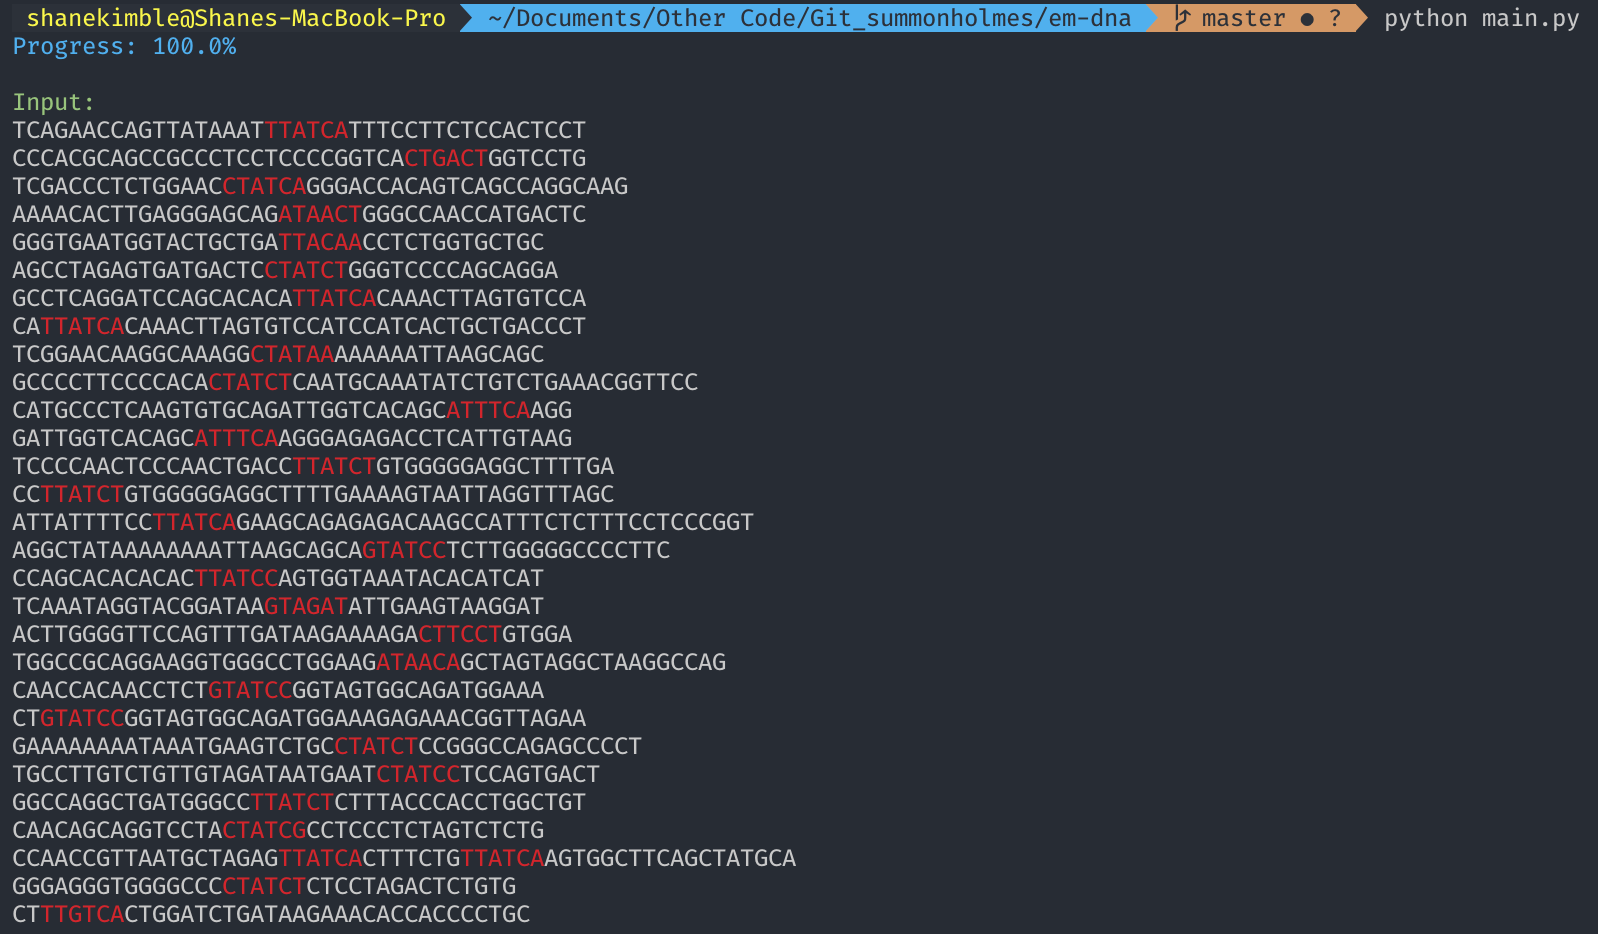
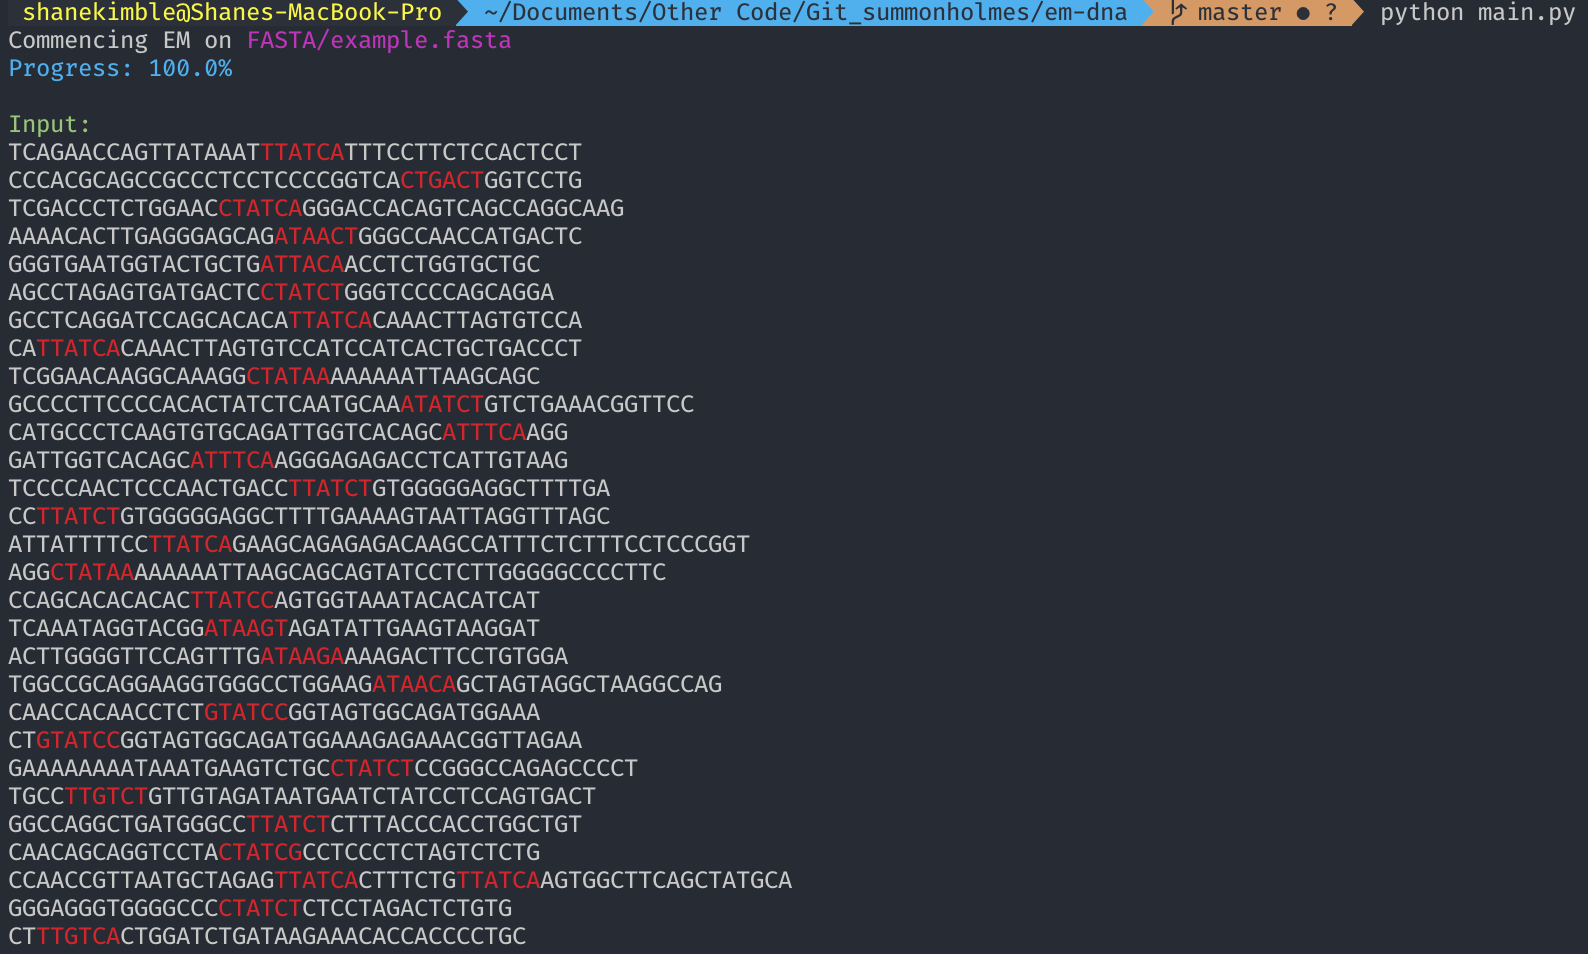
Renaming

Changed region(s): [[0.0, 0.0, 0.9874, 0.9936]]

diff --git a/class_EM_Run.py b/class_EM_Run.py
@@ -72,16 +72,19 @@ class EM_Run(EM_Matrix):
 
     def em_max_sum(self):
         # These index the best results below
-        self.max_likely_results["Final Max Score"] = max(
+        self.max_likely_results["Max Final Score"] = max(
             self.max_likely_results["Final Scores"])
-        self.max_likely_results["Final Sum Scores"] = sum(
+        self.max_likely_results["Max Sum Scores"] = sum(
             self.max_likely_results["Final Scores"])
 
     def em_best_result(self):
         # Last fxn within the em_core for loop
-        self.max_likely_results["Final Sequence"] = self.max_likely_results[
-            "Final Scores"].index(self.max_likely_results["Final Max Score"])
-        self.max_likely_results["Final Position"] = self.max_likely_results[
-            "Final Positions"][self.max_likely_results["Final Sequence"]]
-        self.max_likely_results["Final Motif"] = self.max_likely_results[
-            "Final Motifs"][self.max_likely_results["Final Sequence"]]
+        self.max_likely_results[
+            "Max Final Sequence"] = self.max_likely_results[
+                "Final Scores"].index(
+                    self.max_likely_results["Max Final Score"])
+        self.max_likely_results[
+            "Max Final Position"] = self.max_likely_results["Final Positions"][
+                self.max_likely_results["Max Final Sequence"]]
+        self.max_likely_results["Max Final Motif"] = self.max_likely_results[
+            "Final Motifs"][self.max_likely_results["Max Final Sequence"]]

diff --git a/class_EM_Core.py b/class_EM_Core.py
@@ -11,13 +11,15 @@ class EM_Core:
     # Runs and contains all EM rounds
     def __init__(self):
         # Initialize input object
-        em_input_obj = EM_Input()
+        em_input = EM_Input()
+        print("Commencing EM on", colored(em_input.input_fasta_path,
+                                          "magenta"))
 
         # Get params
-        self.motif_width = em_input_obj.motif_width
-        self.total_rand_aligns = em_input_obj.total_rand_aligns
-        self.total_em_iters = em_input_obj.total_em_iters
-        self.fasta_file_seqs = em_input_obj.fasta_file_seqs
+        self.motif_width = em_input.motif_width
+        self.total_rand_aligns = em_input.total_rand_aligns
+        self.total_em_iters = em_input.total_em_iters
+        self.fasta_file_seqs = em_input.fasta_file_seqs
         self.em_prep = EM_Prep(self.fasta_file_seqs, self.motif_width)
 
         # Init process
@@ -70,7 +72,7 @@ class EM_Core:
 
     def finalize_max_results(self):
         self.final_results = max(
-            self.total_records, key=lambda x: x["Final Sum Scores"])
+            self.total_records, key=lambda x: x["Max Sum Scores"])
 
     def color_the_sequences(self):
         # Map the colors

diff --git a/class_EM_Input.py b/class_EM_Input.py
@@ -74,6 +74,7 @@ class EM_Input:
     def process_fasta(self):
         # Read, split, and skip every other line
         self.fasta_file_seqs = self.fasta_file_seqs.split(">")
-        self.fasta_file_seqs = [sub(r"[^ACTG]+", "", string)
-                                for string in self.fasta_file_seqs]
+        self.fasta_file_seqs = [
+            sub(r"[^ACTG]+", "", string) for string in self.fasta_file_seqs
+        ]
         del self.fasta_file_seqs[0]

diff --git a/README.md b/README.md
@@ -43,41 +43,42 @@ C:\path\to\main.py C:\path\to\python3.exe main.py
 ### Example Run:
 ![alt text](https://raw.githubusercontent.com/summonholmes/em-dna/master/Images/example.png)
 ```
+Results:
     Final Scores  Final Positions Final Motifs
-0     303.827137               18       TTATCA
-1       4.534022               28       CTGACT
-2     230.734903               15       CTATCA
-3      15.733361               19       ATAACT
-4       4.545193               19       TTACAA
-5     263.652353               18       CTATCT
-6     303.827137               20       TTATCA
-7     303.827137                2       TTATCA
-8      33.331416               17       CTATAA
-9     263.652353               14       CTATCT
-10     20.255142               31       ATTTCA
-11     20.255142               13       ATTTCA
-12    347.172181               20       TTATCT
-13    347.172181                2       TTATCT
-14    303.827137               10       TTATCA
-15     51.522972               25       GTATCC
-16    143.810374               13       TTATCC
-17      1.287469               18       GTAGAT
-18      5.407760               29       CTTCCT
-19     13.769024               26       ATAACA
-20     51.522972               14       GTATCC
-21     51.522972                2       GTATCC
-22    263.652353               23       CTATCT
-23    109.213657               26       CTATCC
-24    347.172181               17       TTATCT
-25     37.783513               15       CTATCG
-26    303.827137               19       TTATCA
-27    263.652353               15       CTATCT
-28     38.807012                2       TTGTCA
-('Final Max Score', 347.1721810115789)
-('Final Sum Scores', 4449.298542515307)
-('Final Sequence', 12)
-('Final Position', 20)
-('Final Motif', 'TTATCT')
+0     332.361754               18       TTATCA
+1       8.127632               28       CTGACT
+2     201.368643               15       CTATCA
+3      48.186389               19       ATAACT
+4      10.038831               18       ATTACA
+5     194.449368               18       CTATCT
+6     332.361754               20       TTATCA
+7     332.361754                2       TTATCA
+8      23.828434               17       CTATAA
+9     199.417052               28       ATATCT
+10     41.545219               31       ATTTCA
+11     41.545219               13       ATTTCA
+12    320.941394               20       TTATCT
+13    320.941394                2       TTATCT
+14    332.361754               10       TTATCA
+15     23.828434                3       CTATAA
+16     86.421941               13       TTATCC
+17      5.917996               14       ATAAGT
+18      6.128582               18       ATAAGA
+19     49.901051               26       ATAACA
+20     18.577444               14       GTATCC
+21     18.577444                2       GTATCC
+22    194.449368               23       CTATCT
+23     55.516377                4       TTGTCT
+24    320.941394               17       TTATCT
+25     27.866166               15       CTATCG
+26    332.361754               19       TTATCA
+27    194.449368               15       CTATCT
+28     57.491869                2       TTGTCA
+('Max Final Score', 332.361753824872)
+('Max Sum Scores', 4132.265778452997)
+('Max Final Sequence', 0)
+('Max Final Position', 18)
+('Max Final Motif', 'TTATCA')
 ```
 
 ## License
